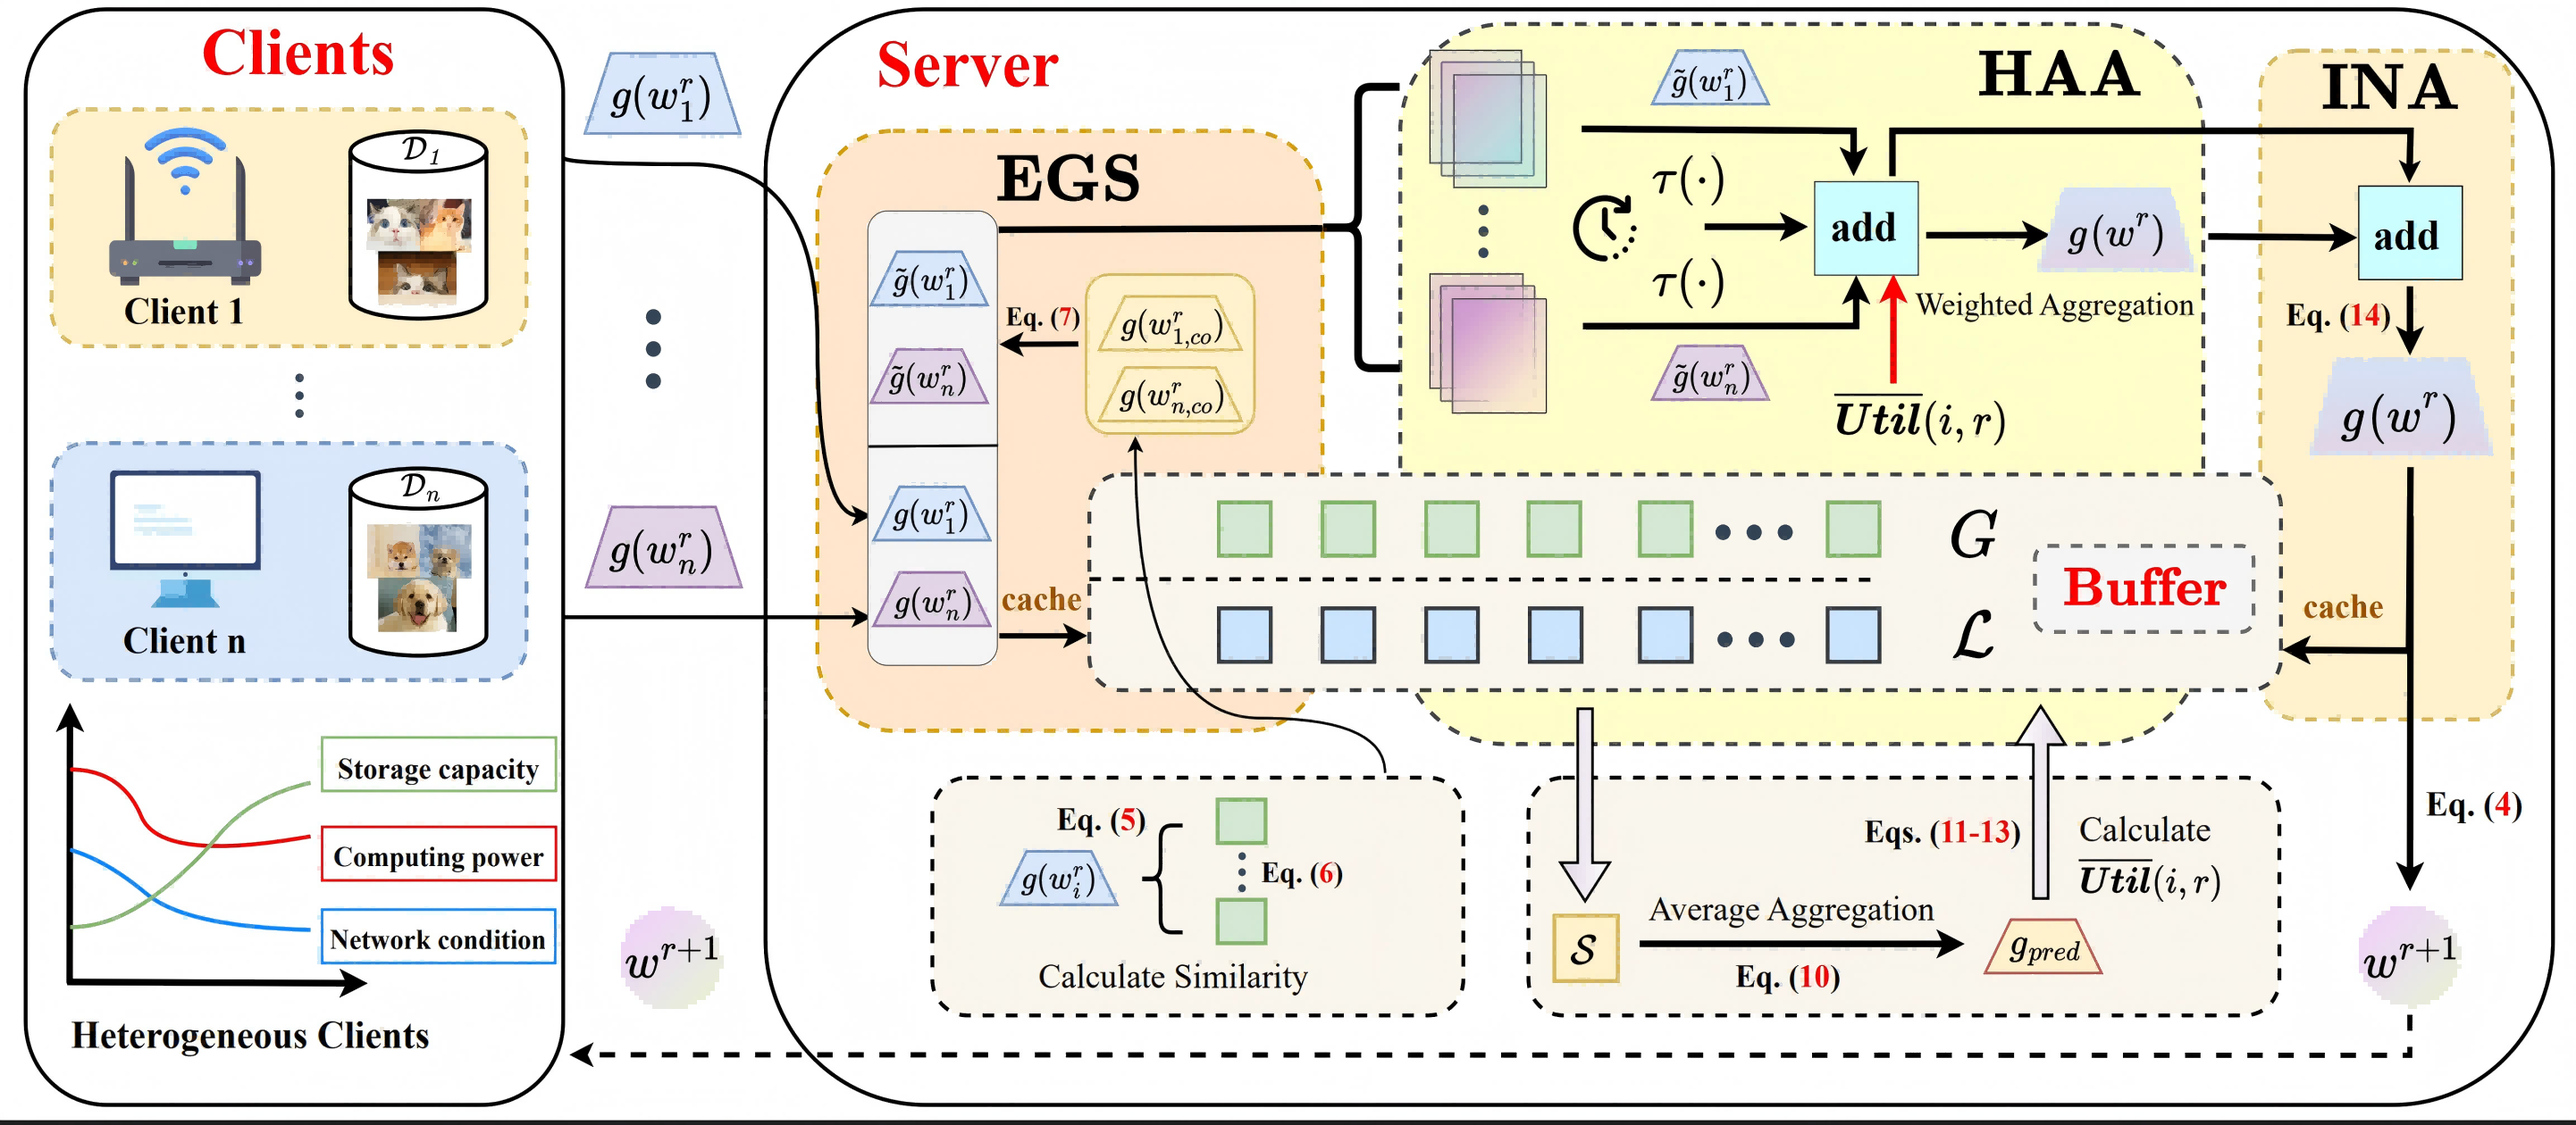
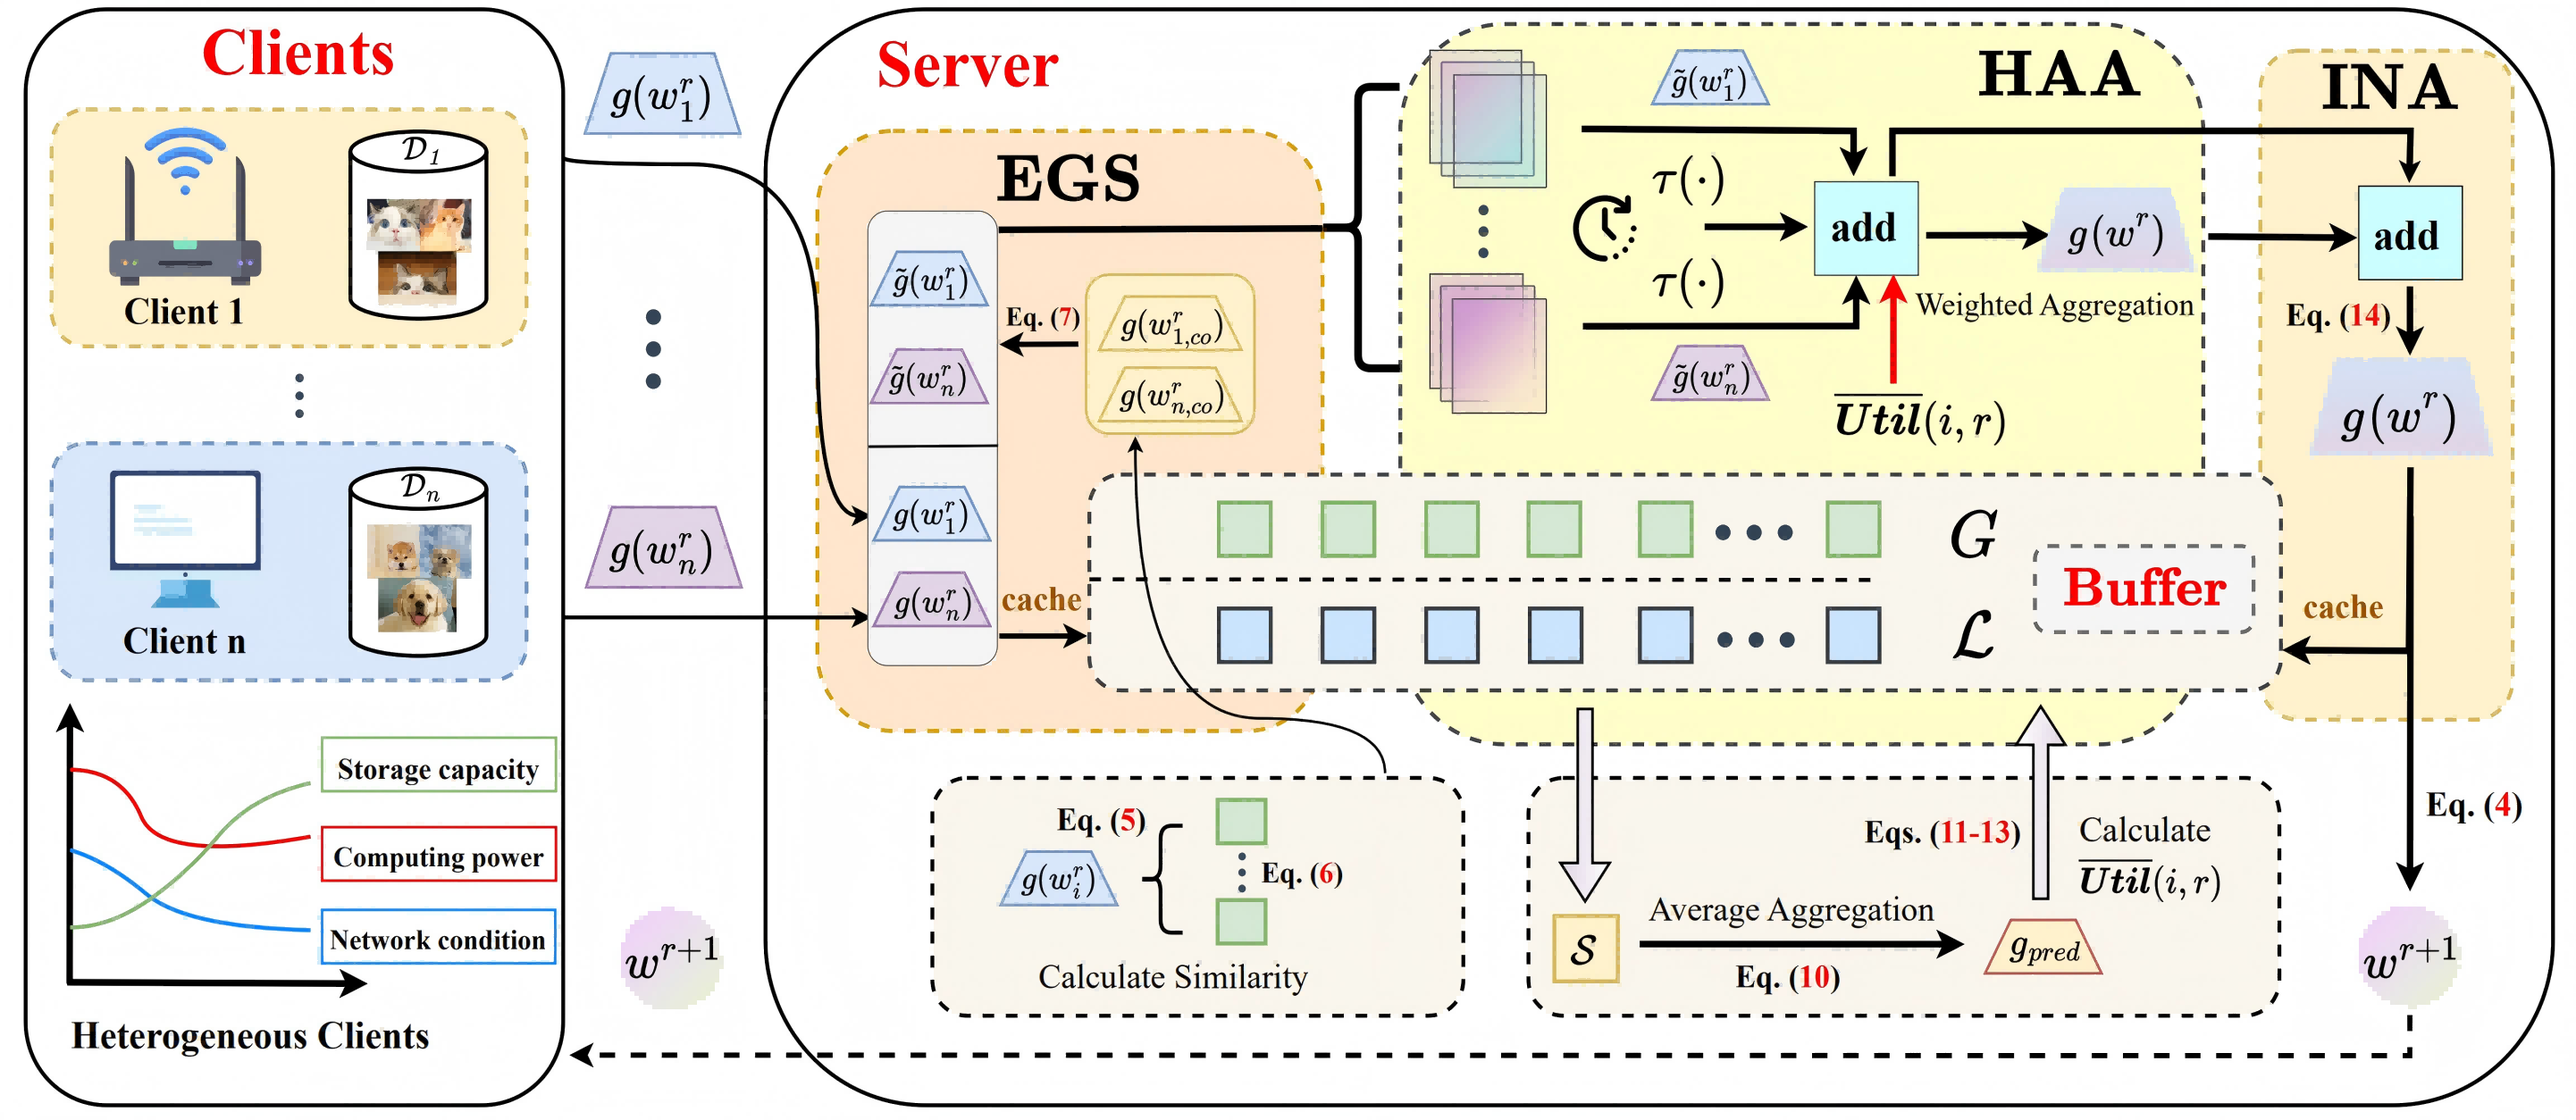
update

diff --git a/_pages/includes/pub.md b/_pages/includes/pub.md
@@ -7,7 +7,7 @@
 
     ICME, 2025
 
-<div style="margin-left: 3%;"><img src="/images/FedHist-framework.png" style="zoom: 35%;"></div>
+<div style="margin-left: 3%;"><img src="/images/FedHist-framework.png" style="zoom: 17%;"></div>
 <br>
 
 
